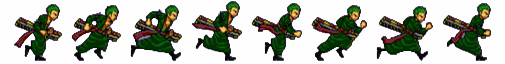
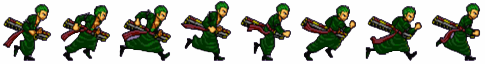
Done

diff --git a/Animator.js b/Animator.js
@@ -8,18 +8,14 @@ class Animator {
 
   drawFrame(tick, ctx, x, y) {
     this.elapsedTime += tick;
-
-    if(this.elapsedTime > this.totalTime){
-        this.elapsedTime -= this.totalTime;
-    }
-
+    if (this.elapsedTime > this.totalTime) this.elapsedTime -= this.totalTime;
     const frame = this.currentFrame();
-
-    ctx.drawImage(this.spritesheet,
-        this.xStart + this.width * frame, this.yStart,
-        this.width, this.height,
-        x, y,
-        this.width, this.height);
+    
+    ctx.drawImage(this.spritesheet, 
+      this.xStart + this.width * frame, this.yStart, 
+      this.width, this.height, 
+      x, y, 
+      this.width, this.height);
   };
 
   currentFrame() {

diff --git a/index.html b/index.html
@@ -8,9 +8,9 @@
     <script type="text/javascript" src="./timer.js"></script>
     <script type="text/javascript" src="./gameengine.js"></script>
     <script type="text/javascript" src="./util.js"></script>
-    <script type="text/javascript" src="./main.js"></script>
-    <script type="text/javascript" src="./Animator.js"></script>
     <script type="text/javascript" src="./Zoro.js"></script>
+    <script type="text/javascript" src="./animator.js"></script>
+    <script type="text/javascript" src="./main.js"></script>
 </head>
 <body>
     <canvas id="gameWorld" width="1024" height="768" style="background: white; border: 1px solid black" tabindex="0" autofocus></canvas>

diff --git a/Zoro.js b/Zoro.js
@@ -1,7 +1,7 @@
 class Zoro {
   constructor(game) {
     this.game = game;
-    this.animation = new Animator(ASSET_MANAGER.getAsset("./img/Walk.png"), -1, 2, 48, 148, 8, .06);
+    this.animator = new Animator(ASSET_MANAGER.getAsset("./img/walk.png"), 5, 0, 55, 108, 8, .05);
     this.x = 0;
     this.y = 483;
     this.speed = 200;
@@ -13,6 +13,6 @@ class Zoro {
   };
 
   draw(ctx) {
-    this.animation.drawFrame(this.game.clockTick, ctx, this.x, this.y);
+    this.animator.drawFrame(this.game.clockTick, ctx, 25, 25);
   };
 }

diff --git a/main.js b/main.js
@@ -2,14 +2,13 @@ const gameEngine = new GameEngine();
 
 const ASSET_MANAGER = new AssetManager();
 
-ASSET_MANAGER.queueDownload("./img/Walk.png");
-
+ASSET_MANAGER.queueDownload("./img/walk.png");
 
 ASSET_MANAGER.downloadAll(() => {
 	const canvas = document.getElementById("gameWorld");
 	const ctx = canvas.getContext("2d");
 
-	gameEngine.addEntity(new Zoro(gameEngine));
+	gameEngine.addEntity(new Zoro(this.game));
 	
 	gameEngine.init(ctx);
 
